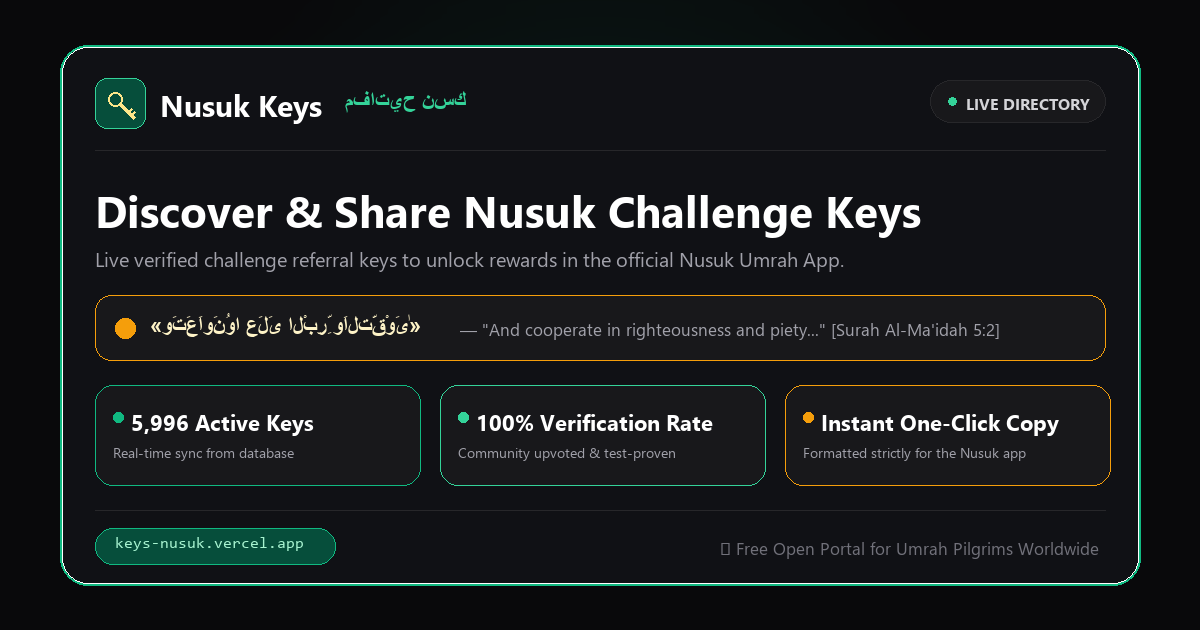
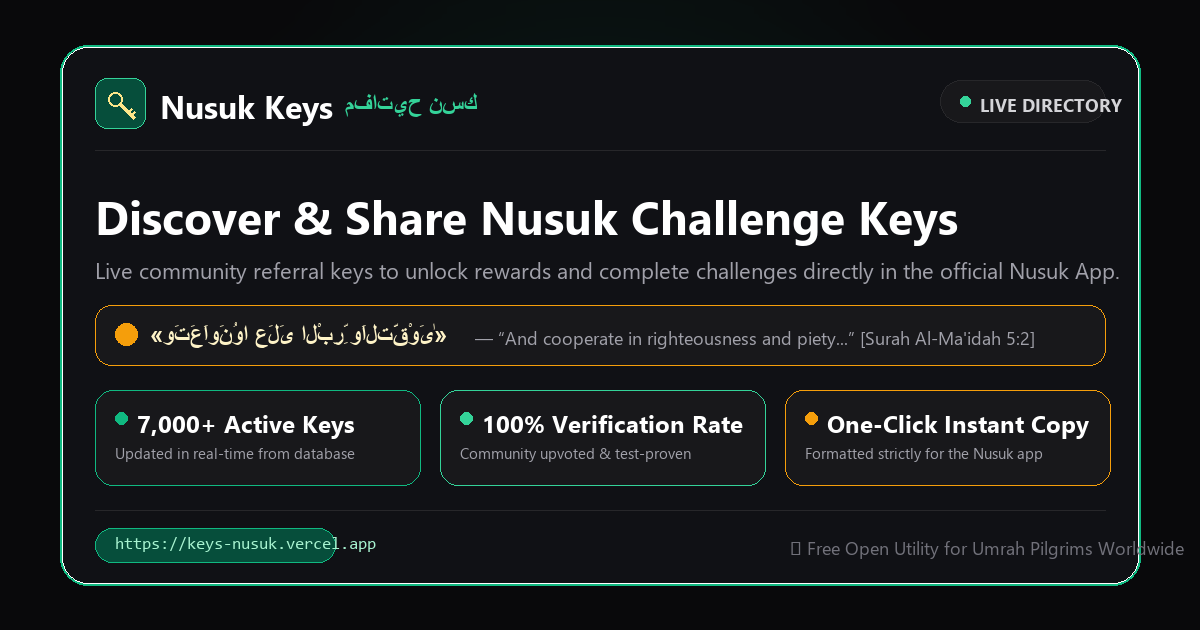
chore(brand): update preview social card badges from 5996 keys to 7000+ keys

diff --git a/README.md b/README.md
@@ -28,7 +28,7 @@ A high-performance, modern progressive web application designed to help pilgrims
   - **Stage 1 (<100ms)**: Renders the first 500 challenge keys instantly upon load.
   - **Stage 2 (Background Sync)**: Fetches up to 1,000 keys silently.
   - **Stage 3 (Background Sync)**: Expands the list to 1,500 keys.
-  - **Stage 4 (Parallel Streaming)**: Hydrates the full catalog of **5,996+ keys** without ever locking the UI thread.
+  - **Stage 4 (Parallel Streaming)**: Hydrates the full catalog of **7,000+ keys** without ever locking the UI thread.
 - **💾 Zero-Latency Local Caching (SWR)**: Utilizes `localStorage` with versioned cache busting (`nusuk_keys_cache_v2`). Return visits render in **0ms** from local storage while syncing fresh changes in the background.
 - **🎨 Modern Minimalist Glassmorphic Design**:
   - Dark zinc glassmorphic surfaces (`bg-zinc-900/60`, `backdrop-blur-xl`).
